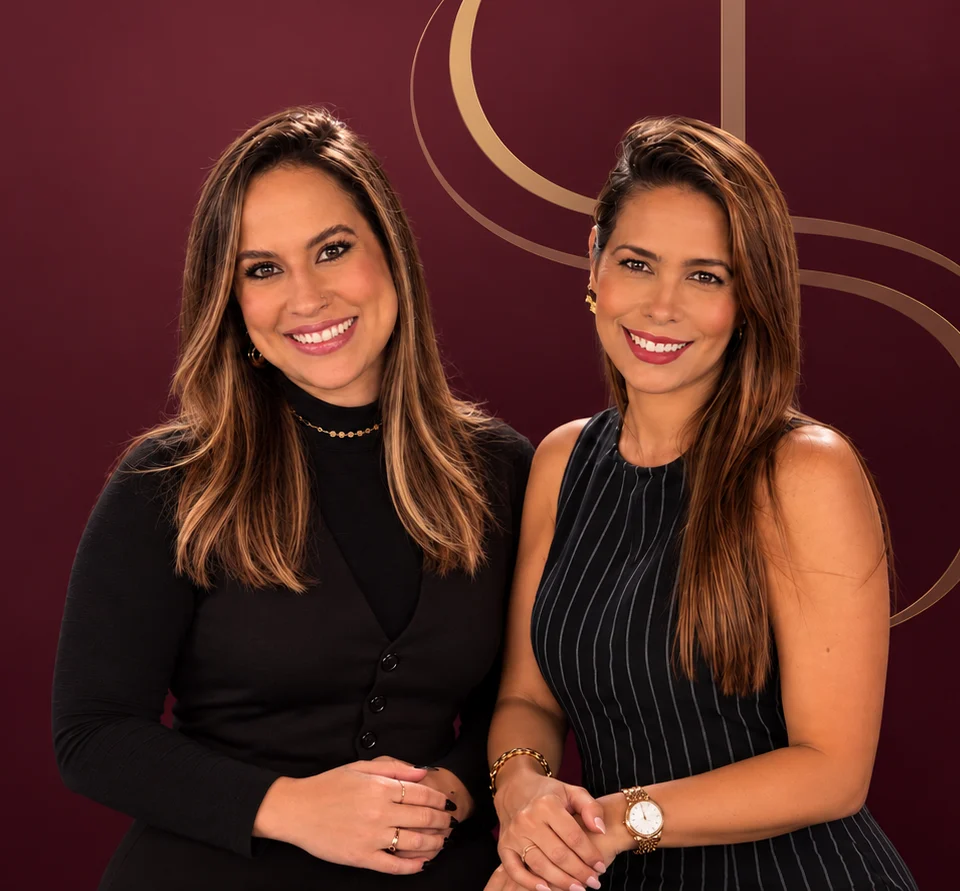
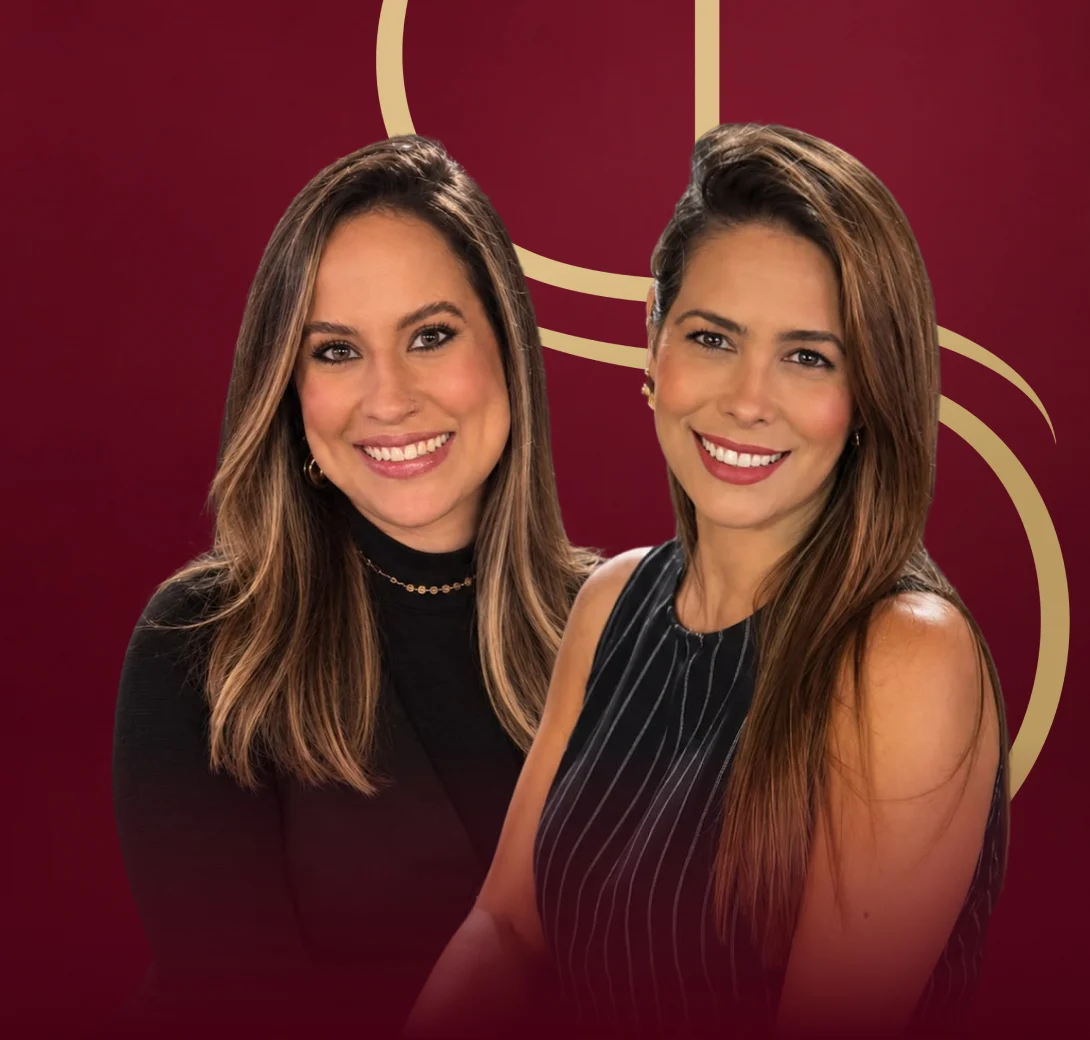
Atualiza imagem de fundo da hero (desktop e mobile)

diff --git a/index.html b/index.html
@@ -66,9 +66,9 @@ h2 strong,h1 strong{font-weight:500}
 .cta{white-space:nowrap}
 
 /* HERO */
-.hero{position:relative;min-height:100vh;min-height:100svh;background:#3E0E19 url(assets/hero-advogadas.webp) no-repeat right center/cover;color:var(--branco);overflow:hidden}
-.hero::before{content:"";position:absolute;inset:0;background:linear-gradient(90deg,rgba(31,1,7,.7) 0%,rgba(31,1,7,.42) 32%,rgba(31,1,7,0) 58%);pointer-events:none}
-.hero::after{content:"";position:absolute;left:0;right:0;bottom:0;height:26%;background:linear-gradient(180deg,rgba(31,1,7,0) 0%,rgba(31,1,7,.55) 55%,#1F0107 100%);pointer-events:none}
+.hero{position:relative;min-height:100vh;min-height:100svh;background:#470012 url(assets/hero-advogadas.webp) no-repeat right center/cover;color:var(--branco);overflow:hidden}
+.hero::before{content:"";position:absolute;inset:0;background:linear-gradient(90deg,rgba(52,0,13,.7) 0%,rgba(52,0,13,.42) 32%,rgba(52,0,13,0) 58%);pointer-events:none}
+.hero::after{content:"";position:absolute;left:0;right:0;bottom:0;height:26%;background:linear-gradient(180deg,rgba(52,0,13,0) 0%,rgba(52,0,13,.55) 55%,#34000D 100%);pointer-events:none}
 .hero .wrap{position:relative;display:flex;flex-direction:column;min-height:100vh;min-height:100svh;padding-top:40px;padding-bottom:56px}
 .hero-logo{width:230px}
 .hero-mob{display:none}
@@ -230,7 +230,7 @@ footer .legal strong{color:rgba(255,255,255,.75);font-weight:500}
 
 /* Responsivo */
 @media (max-width:1024px){
-  .hero::before{background:linear-gradient(90deg,rgba(31,1,7,.85) 0%,rgba(31,1,7,.6) 45%,rgba(31,1,7,0) 75%)}
+  .hero::before{background:linear-gradient(90deg,rgba(52,0,13,.85) 0%,rgba(52,0,13,.6) 45%,rgba(52,0,13,0) 75%)}
   .grid-sit,.grid-an{grid-template-columns:1fr 1fr}
   .steps{grid-template-columns:1fr 1fr;gap:40px 0}
   .step:nth-child(2)::before{display:none}
@@ -241,12 +241,12 @@ footer .legal strong{color:rgba(255,255,255,.75);font-weight:500}
 }
 @media (max-width:820px){
   body{font-size:16px}
-  .hero{background:#2B0A12;min-height:100vh;min-height:100svh;display:flex;flex-direction:column}
+  .hero{background:#470012;min-height:100vh;min-height:100svh;display:flex;flex-direction:column}
   .hero::before{display:none}
   .hero::after{display:none}
   .hero-mob{display:block;position:relative;flex:1 1 auto;min-height:38svh;max-height:62svh}
   .hero-mob img{position:absolute;inset:0;width:100%;height:100%;object-fit:cover;object-position:center top}
-  .hero-mob::after{content:"";position:absolute;left:0;right:0;bottom:0;height:45%;background:linear-gradient(180deg,rgba(43,10,18,0),#2B0A12)}
+  .hero-mob::after{content:"";position:absolute;left:0;right:0;bottom:0;height:45%;background:linear-gradient(180deg,rgba(71,0,18,0),#470012)}
   .hero .wrap{position:static;min-height:0;flex:none;padding-top:0;padding-bottom:32px}
   .hero-logo{position:absolute;top:16px;left:16px;width:140px;z-index:2}
   .hero-copy{position:relative;z-index:1;margin:-56px 0 0;padding:0;text-align:center}
@@ -302,7 +302,7 @@ height="0" width="0" style="display:none;visibility:hidden"></iframe></noscript>
 
 <!-- ============ HERO ============ -->
 <section class="hero">
-  <div class="hero-mob"><img src="assets/hero-advogadas-mobile.webp" alt="Isabela e Bruna, advogadas do escritório Setubal &amp; Fereguetti" width="960" height="891"></div>
+  <div class="hero-mob"><img src="assets/hero-advogadas-mobile.webp" alt="Isabela e Bruna, advogadas do escritório Setubal &amp; Fereguetti" width="1090" height="1040"></div>
   <div class="wrap">
     <img class="hero-logo" src="assets/logo-horizontal-branca.png" alt="Setubal &amp; Fereguetti — Advocacia e Consultoria Jurídica" width="900" height="308">
     <div class="hero-copy">
